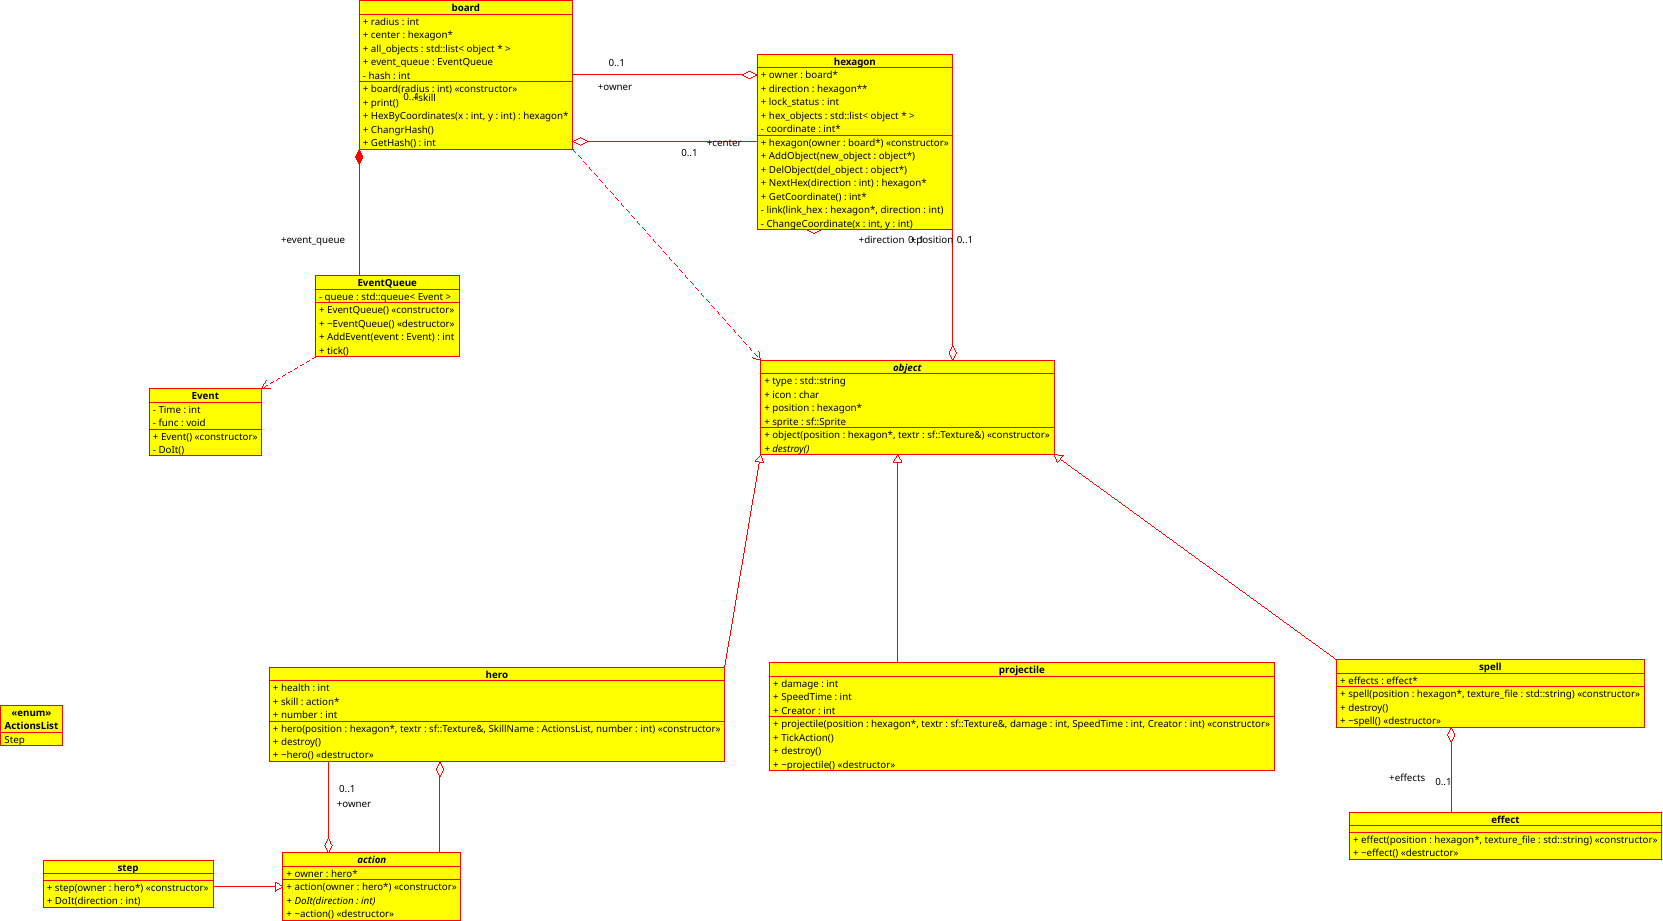
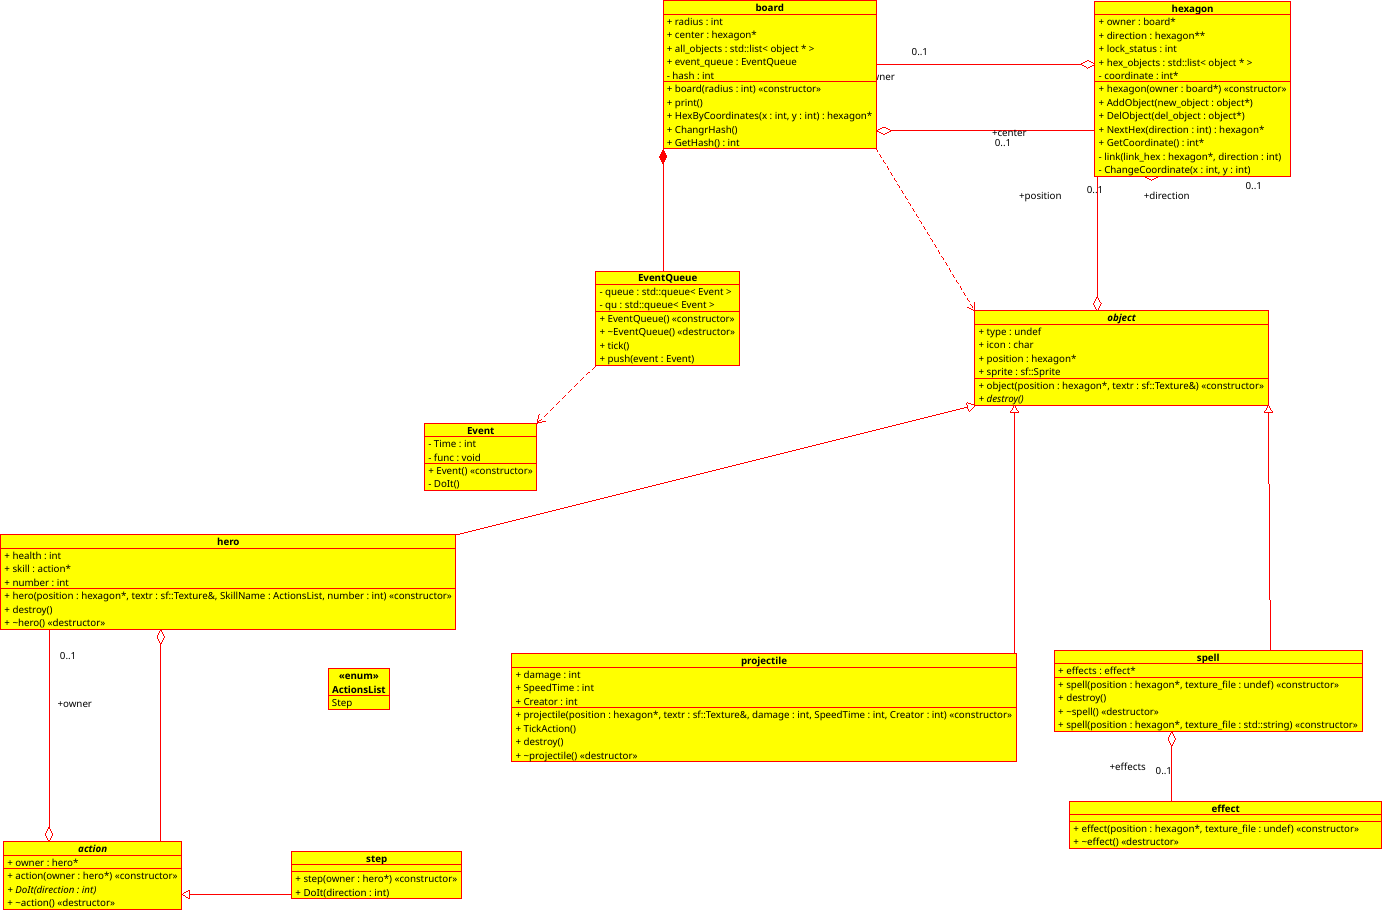
writing a queue

diff --git a/EventQueue.h b/EventQueue.h
@@ -1,6 +1,7 @@
 #ifndef EVENTQUEUE_H
 #define EVENTQUEUE_H
 #include <queue>
+#include <ctime>
 
 class Event
 {
@@ -21,7 +22,7 @@ class EventQueue
         EventQueue();
         ~EventQueue();
 
-        int AddEvent(Event event);
+        void push(Event event);
         //void DelEvent(int id);
         void tick();
 
@@ -29,7 +30,7 @@ class EventQueue
     protected:
 
     private:
-        std::queue <Event> queue;
+        std::queue <Event> qu;
 };
 
 #endif // EVENTQUEUE_H

diff --git a/EventQueue.cpp b/EventQueue.cpp
@@ -1,8 +1,21 @@
 #include "EventQueue.h"
-
+void Event::DoIt(){
+    this->func();
+}
 EventQueue::EventQueue()
 {
     //ctor
+}
+
+void EventQueue::push(Event event){
+    this->qu.push(event);
+}
+
+void EventQueue::tick(){
+    while(this->qu.front().Time<clock()){
+        this->qu.front().DoIt();
+        this->qu.pop();
+    }
 }
 
 EventQueue::~EventQueue()
